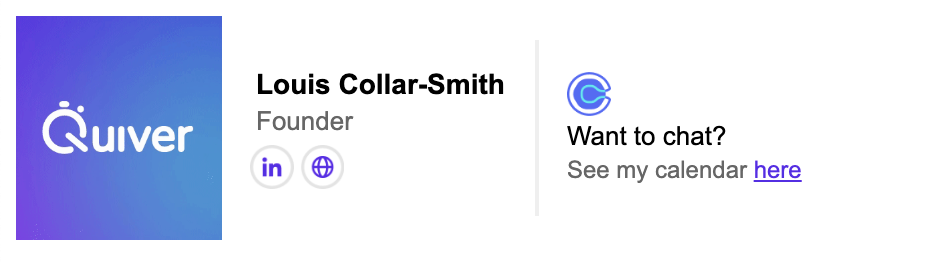
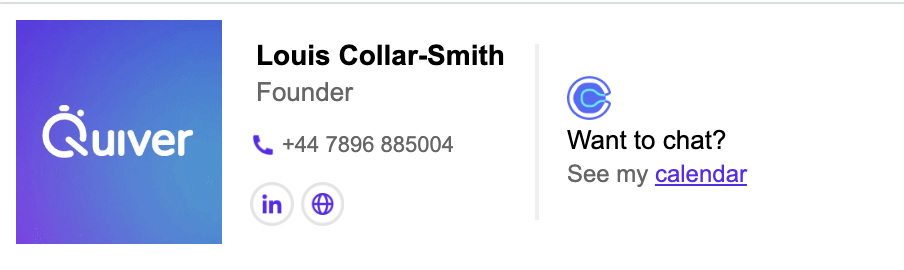
Added phone to footer

diff --git a/templates/default_phone.html b/templates/default_phone.html
@@ -25,7 +25,6 @@
           line-height: 18px;
           padding-bottom: 1px;
           padding-left: 3px;
-          white-space: nowrap;
           color: black;
         "
         >Louis Collar-Smith</span
@@ -90,40 +89,6 @@
           </td>
         </tr>
       </table>
-    </td>
-    <td>
-      <div style="border-left: 2px solid #efefef; padding: 16px 14px">
-        <a href="https://calendly.com/louis-collar-smith/" target="_blank">
-          <img
-            src="https://bucket.mailersendapp.com/0r83ql3eyx4zw1jm/pxkjn41wm6lz7815/images/96a95a00-2429-4ae0-954e-3b49e1d46862.png"
-            height="22"
-            width="22"
-            alt=""
-          />
-        </a>
-        <span
-          style="
-            display: block;
-            font-size: 13px;
-            line-height: 16px;
-            font-weight: 500;
-            padding: 2px 0;
-            white-space: nowrap;
-            color: black;
-          "
-        >
-          Want to chat?
-        </span>
-        <div style="color: #666666; font-size: 12px; white-space: nowrap">
-          See my
-          <a
-            href="https://calendly.com/louis-collar-smith/"
-            target="_blank"
-            style="text-decoration: underline; color: #5e17eb"
-            >calendar</a
-          >
-        </div>
-      </div>
     </td>
   </tr>
 </table>
